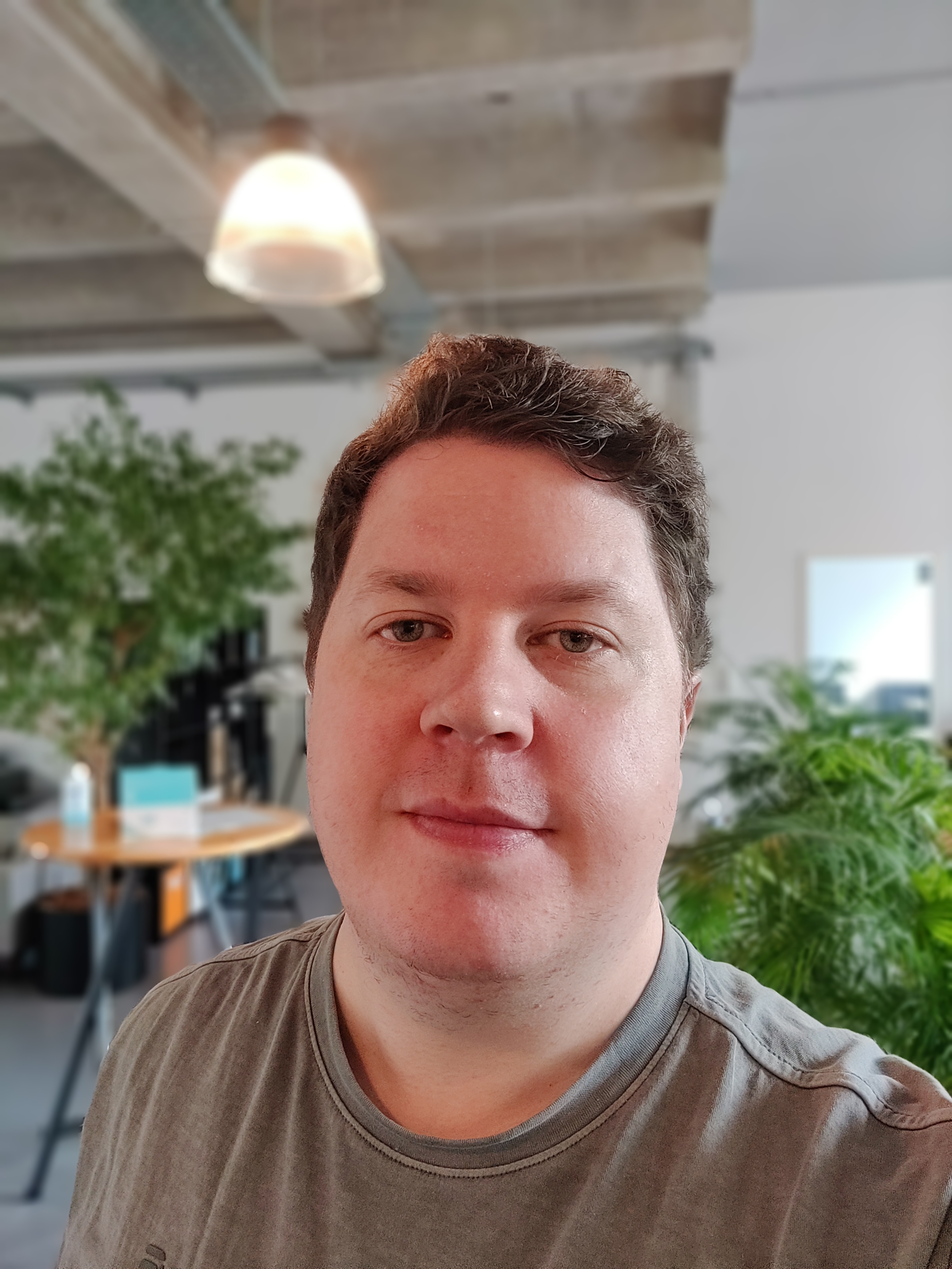
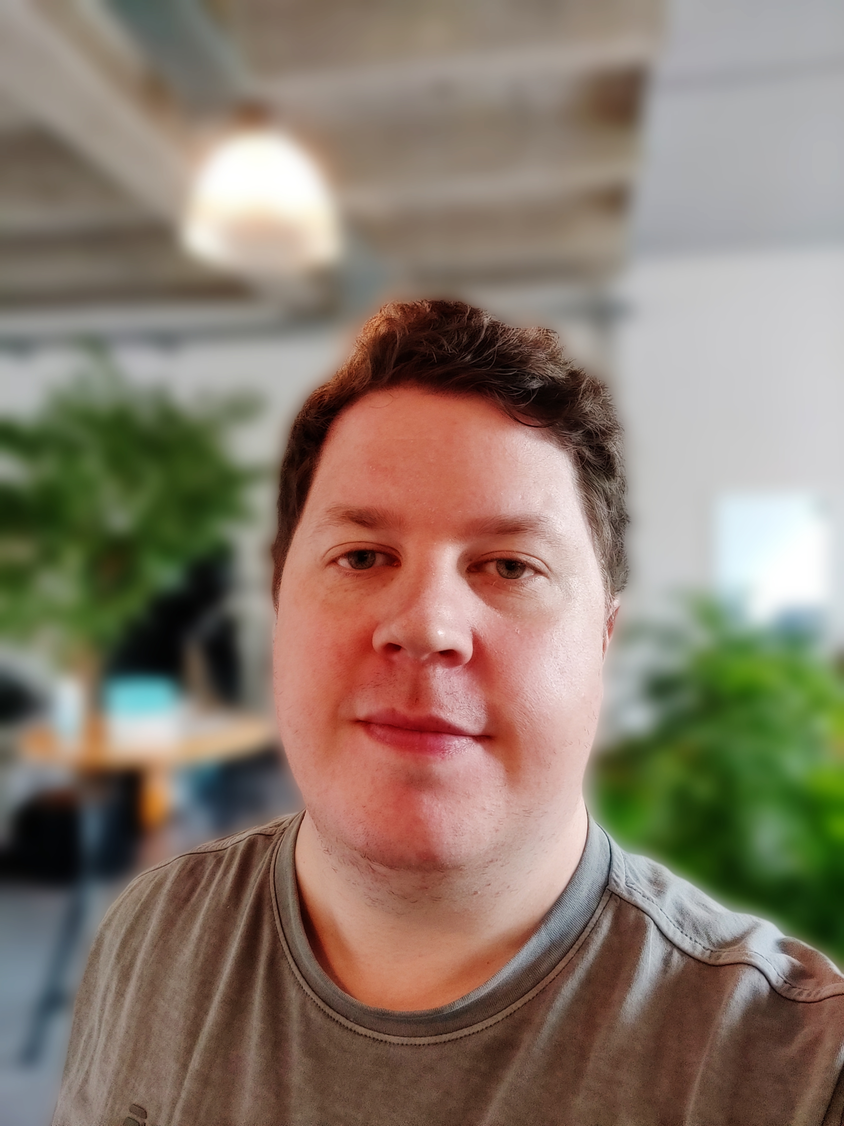
Changes the profile image

diff --git a/content/resources/styles.css b/content/resources/styles.css
@@ -30,7 +30,7 @@ html {
     background-color: #eee;
     width: 150px;
     height: 150px;
-    background-image: url(ebergmann-profile-2.jpg);
+    background-image: url(ebergmann-profile.jpg);
     background-size: cover;
     border-radius: 50%;
     background-repeat: no-repeat;
